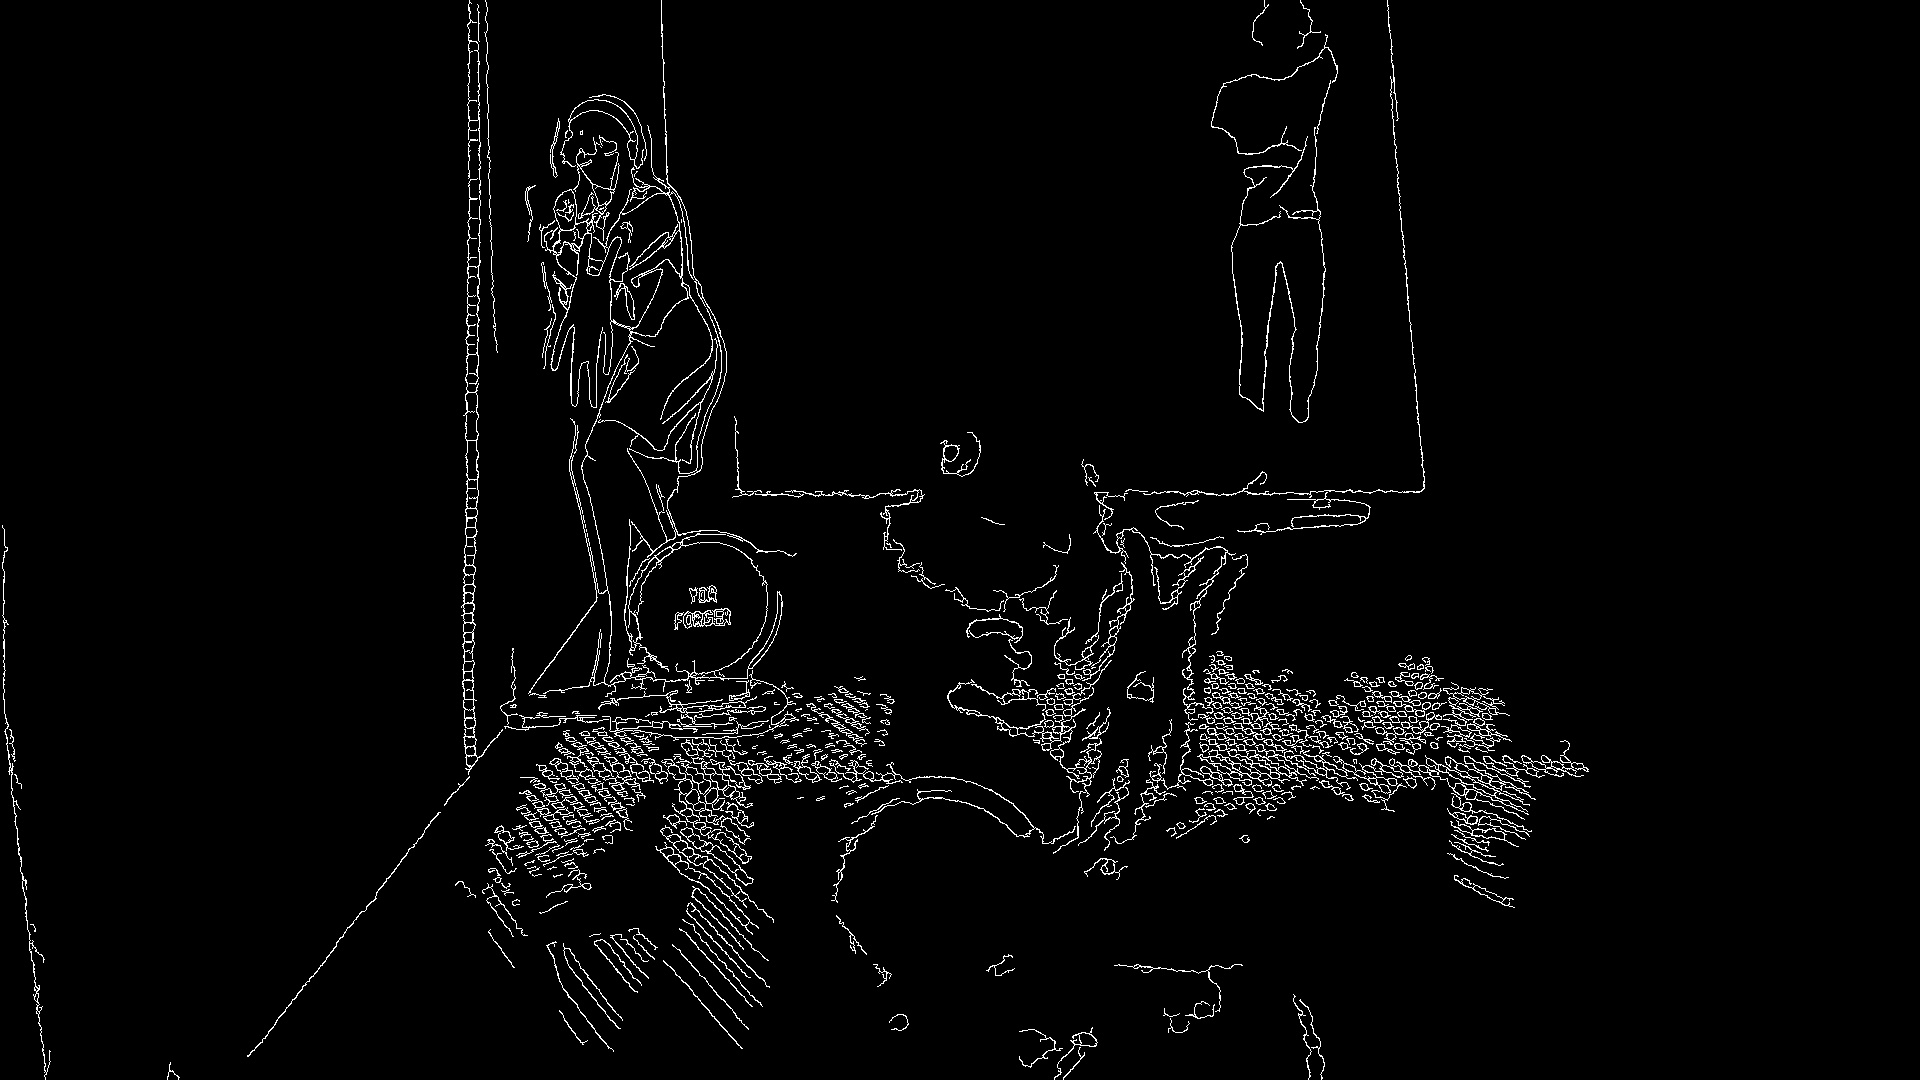
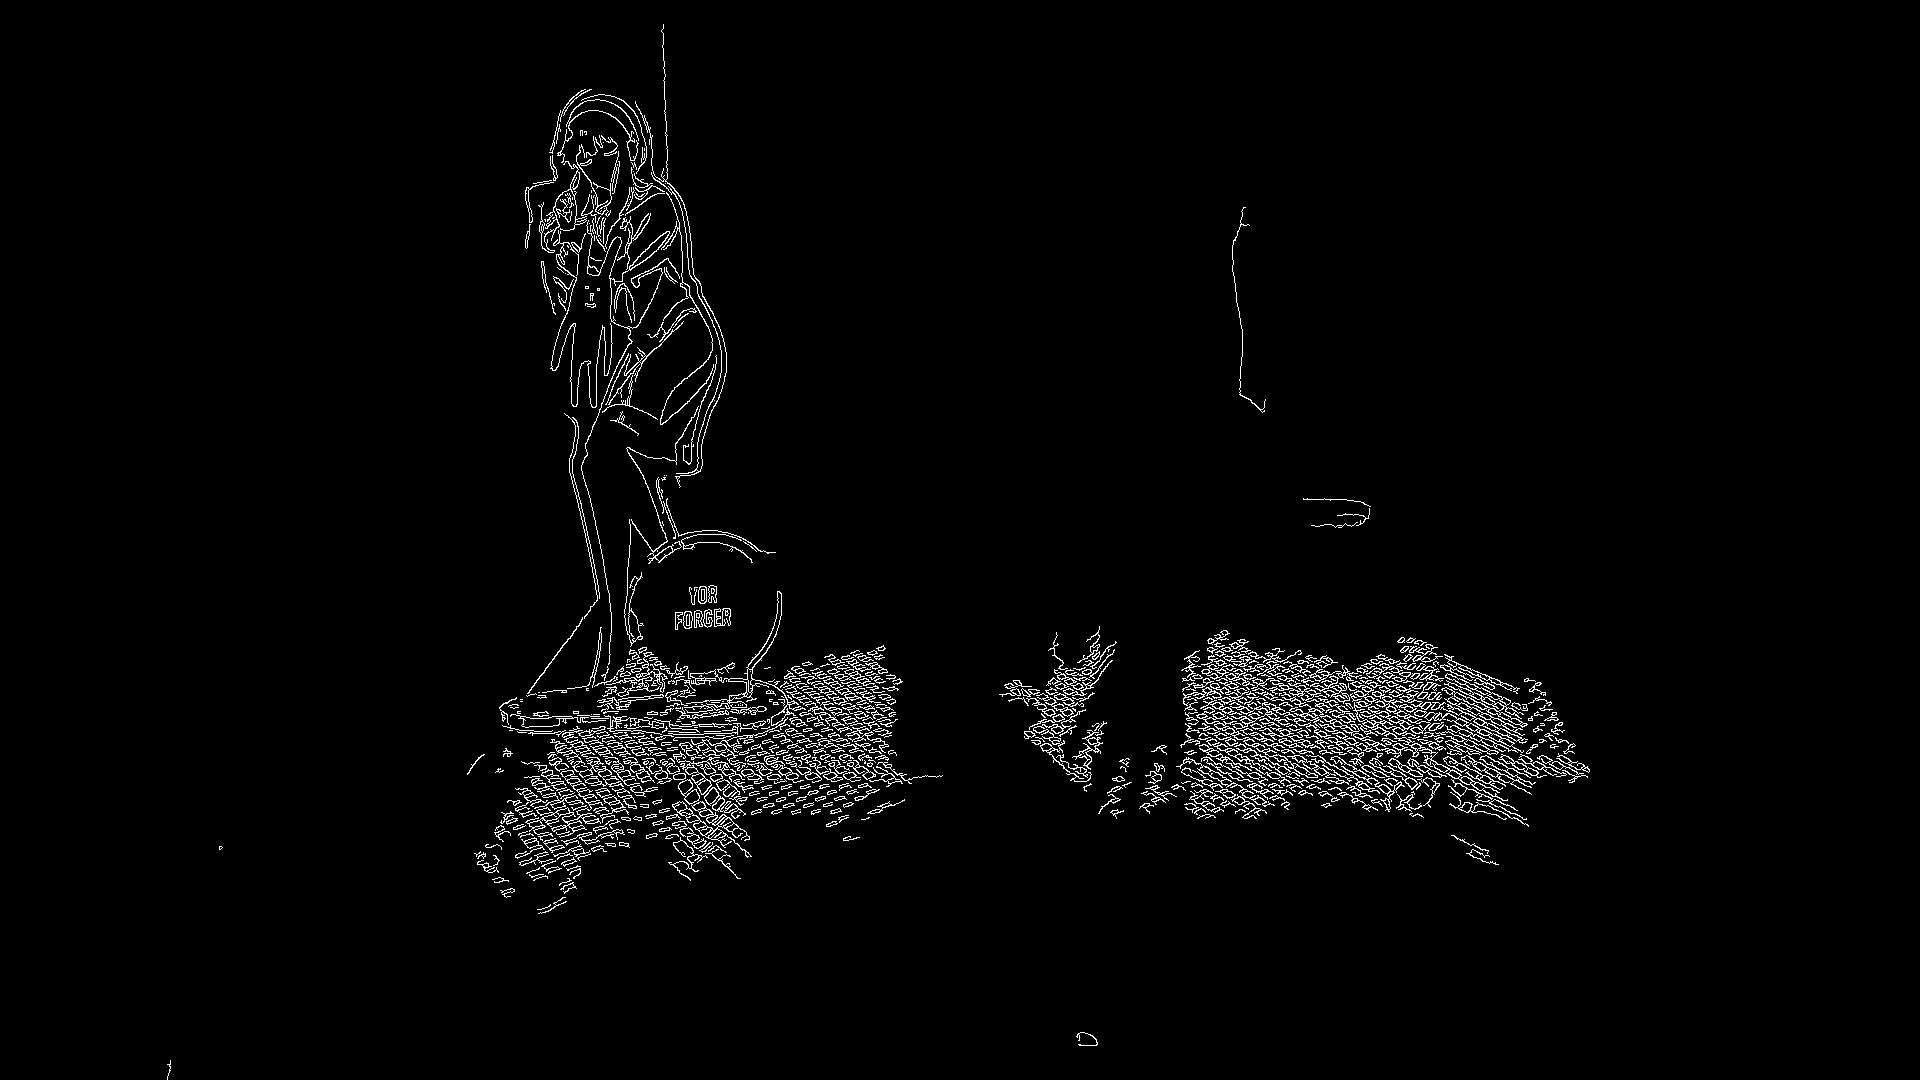
feat: add find focus point, add v2

diff --git a/multi-focus-merger-v2.py b/multi-focus-merger-v2.py
@@ -1,0 +1,122 @@
+import cv2
+import numpy as np
+import os
+import shutil
+from tqdm import tqdm
+from edge_detection import edge_detection_rgb
+from segmentation import contours_segmentation
+from contour import find_contours
+from sharpness_comparison import sharpness_comparison
+from focus_point import find_focus_points
+from film2image import film2image_list
+
+
+def main():
+    # parameters
+    video_name = 'P1500667'
+    video_path = f'videos/{video_name}.MP4'
+    video_name = video_name + '_v2'
+    sampling_interval = 1
+    reverse = False  # whether to process the video in reverse order
+    sharpness_threshold = 2000  # sharpness threshold for focus points
+    diff_threshold = 100  # difference threshold for focus points
+    area_threshold = 5000  # contour will be ignored if area < area_threshold
+    kernel_size = 5  # cv2.morphologyEx parameter
+    low_threshold, high_threshold = 50, 150  # cv2.Canny parameter
+    kuwa = False  # whether to apply Kuwahara filter before edge detection
+
+    frame_rate = 15
+
+    # create output folder
+    output_folder = f'_output-images_/{video_name}'
+    if os.path.exists(output_folder):
+        print("Delete old result in folder: {}".format(output_folder))
+        shutil.rmtree(output_folder)
+    else:
+        print("Create new folder: {}".format(output_folder))
+    os.makedirs(output_folder)
+
+    # load video
+    images = film2image_list(video_path, sampling_interval)
+
+    # find focus points
+    focus_points = find_focus_points(
+        images, sharpness_threshold=sharpness_threshold, diff_threshold=diff_threshold)
+
+    if reverse:
+        images = images[::-1]
+        focus_points = focus_points[::-1]
+
+    sharpest_image = images[focus_points[0]].copy()
+
+    # create video writer
+    fourcc = cv2.VideoWriter_fourcc(*'mp4v')
+    video_edge = cv2.VideoWriter(
+        f'{output_folder}/edge.mp4', fourcc, frame_rate, (sharpest_image.shape[1], sharpest_image.shape[0]))
+    video_dila = cv2.VideoWriter(
+        f'{output_folder}/dila.mp4', fourcc, frame_rate, (sharpest_image.shape[1], sharpest_image.shape[0]))
+    video_contour = cv2.VideoWriter(
+        f'{output_folder}/contour.mp4', fourcc, frame_rate, (sharpest_image.shape[1], sharpest_image.shape[0]))
+    video_sharpest = cv2.VideoWriter(
+        f'{output_folder}/sharpest.mp4', fourcc, frame_rate, (sharpest_image.shape[1], sharpest_image.shape[0]))
+
+    # process frames
+    for idx in tqdm(focus_points, desc='Processing frames'):
+        frame = images[idx].copy()
+        # edge detection
+        edge = edge_detection_rgb(
+            frame, low_threshold=low_threshold, high_threshold=high_threshold, kuwa=kuwa)
+
+        # dilation and erosion
+        main_edge = cv2.morphologyEx(edge, cv2.MORPH_CLOSE, np.ones(
+            (kernel_size, kernel_size), np.uint8))
+
+        # find contours
+        contours = find_contours(main_edge, area_threshold)
+
+        # segment the image based on the contours
+        segmented_images = contours_segmentation(frame, contours)
+        segmented_sharpest_image = contours_segmentation(
+            sharpest_image, contours)
+
+        # compare the sharpness of the segmented images
+        sharpest_parts = []
+        for j, segmented_image in enumerate(segmented_images):
+            sharpest_part = sharpness_comparison(
+                segmented_image, segmented_sharpest_image[j])
+            sharpest_parts.append(sharpest_part)
+
+        # combine the sharpest parts
+        sharpest_image = np.zeros_like(sharpest_image)
+        for sharpest_part in sharpest_parts:
+            sharpest_image = cv2.add(sharpest_image, sharpest_part)
+
+        # save images processing result
+        file_name = '{}/frame{:04d}.jpg'.format(output_folder, idx)
+        cv2.imwrite(file_name, frame)
+        file_name = '{}/edge{:04d}.jpg'.format(output_folder, idx)
+        cv2.imwrite(file_name, cv2.merge([edge, edge, edge]))
+        file_name = '{}/dila{:04d}.jpg'.format(output_folder, idx)
+        cv2.imwrite(file_name, cv2.merge([main_edge, main_edge, main_edge]))
+        file_name = '{}/contour{:04d}.jpg'.format(output_folder, idx)
+        cv2.imwrite(file_name, cv2.drawContours(
+            frame.copy(), contours, -1, (0, 255, 0), 3))
+        file_name = '{}/sharpest{:04d}.jpg'.format(output_folder, idx)
+        cv2.imwrite(file_name, sharpest_image)
+
+        # save result video
+        video_edge.write(edge)
+        video_dila.write(main_edge)
+        video_contour.write(cv2.drawContours(
+            frame.copy(), contours, -1, (0, 255, 0), 3))
+        video_sharpest.write(sharpest_image)
+
+    # save the sharpest image
+    video_edge.release()
+    video_dila.release()
+    video_contour.release()
+    video_sharpest.release()
+    cv2.imwrite(f'result/{video_name}.jpg', sharpest_image)
+
+
+main()

diff --git a/multi-focus-merger-v1.py b/multi-focus-merger-v1.py
@@ -15,10 +15,13 @@ def main():
     video_path = f'videos/{video_name}.MP4'
     sampling_interval = 1
     reverse = False  # whether to process the video in reverse order
-    area_threshold = 1000  # contour will be ignored if area < area_threshold
+    area_threshold = 5000  # contour will be ignored if area < area_threshold
     kernel_size = 5  # cv2.morphologyEx parameter
     low_threshold, high_threshold = 50, 150  # cv2.Canny parameter
-    kuwa = True  # whether to apply Kuwahara filter before edge detection
+    kuwa = False  # whether to apply Kuwahara filter before edge detection
+
+    # video_name += '-kuwa'
+    frame_rate = 15
 
     # create output folder
     output_folder = f'_output-images_/{video_name}'
@@ -33,6 +36,17 @@ def main():
     vc = cv2.VideoCapture(video_path)
     frame_count = int(vc.get(cv2.CAP_PROP_FRAME_COUNT))
     sharpest_image = vc.read()[1]
+
+    # create video writer
+    fourcc = cv2.VideoWriter_fourcc(*'mp4v')
+    video_edge = cv2.VideoWriter(
+        f'{output_folder}/edge.mp4', fourcc, frame_rate, (sharpest_image.shape[1], sharpest_image.shape[0]))
+    video_dila = cv2.VideoWriter(
+        f'{output_folder}/dila.mp4', fourcc, frame_rate, (sharpest_image.shape[1], sharpest_image.shape[0]))
+    video_contour = cv2.VideoWriter(
+        f'{output_folder}/contour.mp4', fourcc, frame_rate, (sharpest_image.shape[1], sharpest_image.shape[0]))
+    video_sharpest = cv2.VideoWriter(
+        f'{output_folder}/sharpest.mp4', fourcc, frame_rate, (sharpest_image.shape[1], sharpest_image.shape[0]))
 
     # process video
     if reverse:
@@ -79,17 +93,29 @@ def main():
             file_name = '{}/frame{:04d}.jpg'.format(output_folder, idx)
             cv2.imwrite(file_name, frame)
             file_name = '{}/edge{:04d}.jpg'.format(output_folder, idx)
-            cv2.imwrite(file_name, edge)
+            cv2.imwrite(file_name, cv2.merge([edge, edge, edge]))
             file_name = '{}/dila{:04d}.jpg'.format(output_folder, idx)
-            cv2.imwrite(file_name, main_edge)
+            cv2.imwrite(file_name, cv2.merge(
+                [main_edge, main_edge, main_edge]))
             file_name = '{}/contour{:04d}.jpg'.format(output_folder, idx)
             cv2.imwrite(file_name, cv2.drawContours(
                 frame.copy(), contours, -1, (0, 255, 0), 3))
             file_name = '{}/sharpest{:04d}.jpg'.format(output_folder, idx)
             cv2.imwrite(file_name, sharpest_image)
 
+            # save result video
+            video_edge.write(edge)
+            video_dila.write(main_edge)
+            video_contour.write(cv2.drawContours(
+                frame.copy(), contours, -1, (0, 255, 0), 3))
+            video_sharpest.write(sharpest_image)
+
     # save the sharpest image
     vc.release()
+    video_edge.release()
+    video_dila.release()
+    video_contour.release()
+    video_sharpest.release()
     cv2.imwrite(f'result/{video_name}.jpg', sharpest_image)
 
 

diff --git a/focus_point.py b/focus_point.py
@@ -1,0 +1,27 @@
+import numpy as np
+from sharpness_comparison import get_sharpness_values
+
+
+def find_focus_points(images, sharpness_threshold=2000, diff_threshold=100):
+    sharpness_values = get_sharpness_values(images)
+    sharpness_values = np.array(sharpness_values)
+    diff = np.insert(np.diff(sharpness_values), 0, 0)
+    focus_points = np.where(
+        (np.abs(diff) < diff_threshold) & (sharpness_values > sharpness_threshold))[0]
+    return focus_points
+
+
+if __name__ == '__main__':
+    # parameters
+    video_name = 'P1500718'
+    video_path = f'videos/{video_name}.MP4'
+    sampling_interval = 1
+
+    # images = film2image_list(video_path, sampling_interval)
+    # sharpness_values = get_sharpness_values(images)
+    # print(sharpness_values)
+    sharpness_values = [245, 244, 230, 228, 236, 231, 235, 235, 243, 245, 244, 256, 298, 297, 282, 274, 274, 290, 283, 284, 297, 285, 287, 316, 317, 317, 306, 297, 306, 337, 330, 342, 356, 350, 350, 364, 367, 369, 369, 366, 366, 392, 383, 399, 449, 445, 447, 525, 553, 563, 577, 577, 676, 792, 814, 817, 911, 1040, 1267, 1338, 1794, 1839, 2221, 3120, 3272, 3631, 3884, 3908, 3910, 3950, 3992, 4056, 4032, 4008, 3995, 3976, 3960, 3958, 3914, 3882, 3892, 3810, 3835, 3909, 3807, 3781, 3732, 3694, 3689, 3754, 3830, 3842, 3894, 3946,
+                        4346, 4309, 4376, 4485, 4450, 4582, 4736, 5071, 5211, 5166, 5273, 5146, 4699, 4669, 4129, 4079, 3688, 3690, 3661, 3600, 3567, 3562, 3549, 3493, 3407, 3411, 3158, 2757, 2401, 1950, 1860, 1566, 1203, 1025, 1032, 823, 749, 695, 635, 594, 568, 508, 487, 480, 428, 415, 428, 391, 384, 401, 368, 361, 336, 318, 314, 328, 317, 314, 328, 316, 315, 327, 317, 309, 288, 273, 273, 290, 274, 273, 291, 280, 279, 296, 285, 283, 269, 263, 263, 278, 270, 269, 283, 275, 275, 289, 281, 282, 268, 264, 264, 276, 269, 270, 283, 269, 268, 290]
+
+    focus_points = find_focus_points(sharpness_values)
+    print(focus_points)
